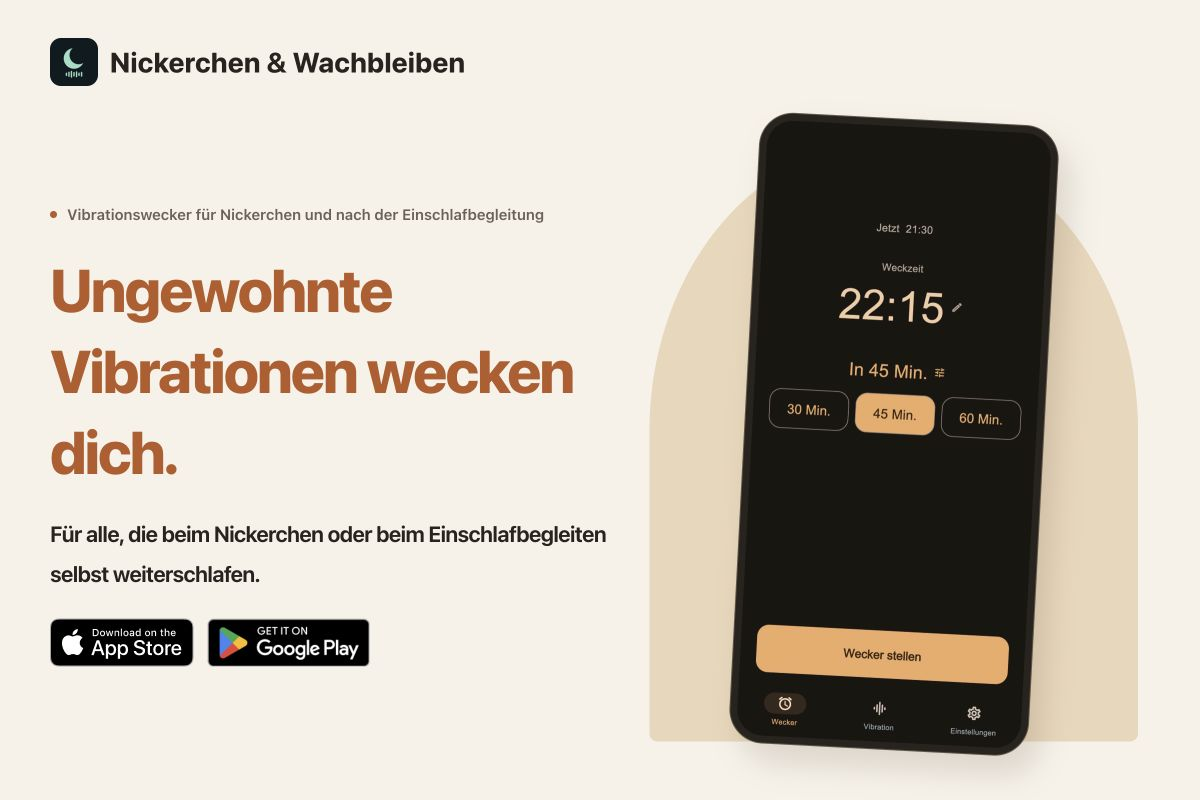
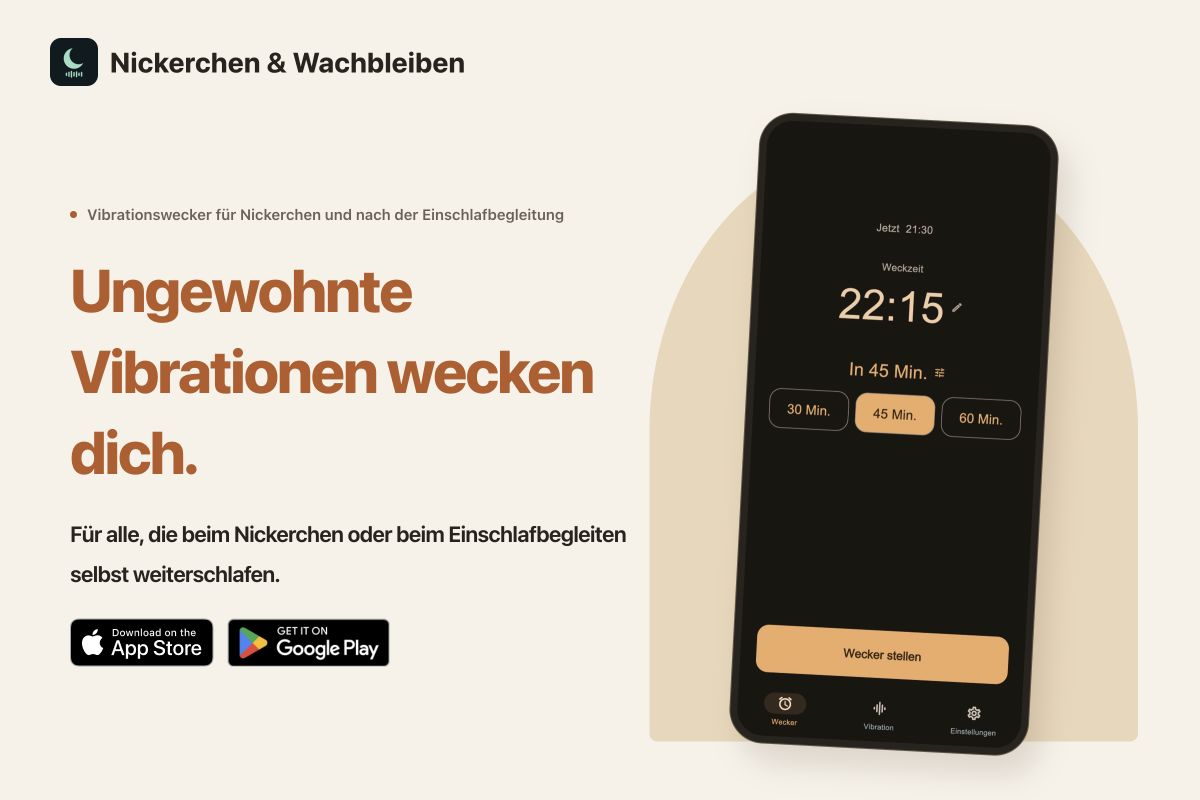
Move NemuCue OGP copy toward the center per locale

diff --git a/NemuCue/tools/prepare_ogp_capture.py b/NemuCue/tools/prepare_ogp_capture.py
@@ -17,9 +17,17 @@ html{scroll-behavior:auto!important}body{width:1200px;height:800px;overflow:hidd
 html[lang=ja] .hero h1{font-size:78px!important}
 html:lang(ar) .hero h1,html:lang(hi) .hero h1,html:lang(th) .hero h1{letter-spacing:normal!important;line-height:1.5!important}
 '''
+COPY_INSET = {
+ 'ja': 40, 'en': 24, 'zh-Hans': 44, 'zh-Hant': 44, 'ko': 44,
+ 'es': 28, 'pt-BR': 24, 'fr': 24, 'de': 20, 'it': 28, 'nl': 24,
+ 'ru': 20, 'uk': 20, 'pl': 28, 'tr': 28, 'ar': 28, 'hi': 32,
+ 'id': 28, 'vi': 28, 'th': 32
+}
 for locale in json.loads((root/'content/locales.json').read_text()):
  lang=locale['tag'];s=(root/lang/'index.html').read_text()
  s=re.sub(r'<script src="[^"]+" defer></script>','',s)
- s=s.replace('</head>',f'<style>{css}</style></head>')
+ offset = -COPY_INSET[lang] if locale['direction'] == 'rtl' else COPY_INSET[lang]
+ adjustment = f'.hero .hero-copy{{transform:translateX({offset}px)}}'
+ s=s.replace('</head>',f'<style>{css}{adjustment}</style></head>')
  (folder/(lang+'.html')).write_text(s)
 print('Prepared capture pages from the actual 20 LP KV sections.')

diff --git a/NemuCue/README.md b/NemuCue/README.md
@@ -77,7 +77,7 @@ Each KV screenshot has a localized sentence explaining its use or benefit. Capti
 
 ## OGP images
 
-`images/ogp/<locale>.jpg` contains browser screenshots of each localized KV at 1200×800. The 3:2 image ratio and centered capture layout keep the headline, real app screen, app name and store badges together. The capture fills a 1100px-wide area with a 300px phone, a 78px Japanese headline (60px in other locales), 22px audience text and a larger app name to stay readable in thumbnails. These are deterministic screenshots of the first carousel slide, not generated illustrations. The shared `/NemuCue/` entry uses the Japanese image so social crawlers do not depend on JavaScript; language-specific pages use their own image. Open Graph dimensions, image alt text and Twitter large-image tags are set explicitly.
+`images/ogp/<locale>.jpg` contains browser screenshots of each localized KV at 1200×800. The 3:2 image ratio and centered capture layout keep the headline, real app screen, app name and store badges together. The capture fills a 1100px-wide area with a 300px phone, a 78px Japanese headline (60px in other locales), 22px audience text and a larger app name to stay readable in thumbnails. The copy is inset toward the phone by 20–44px per locale while preserving its line breaks; RTL Arabic uses a negative horizontal offset. These are deterministic screenshots of the first carousel slide, not generated illustrations. The shared `/NemuCue/` entry uses the Japanese image so social crawlers do not depend on JavaScript; language-specific pages use their own image. Open Graph dimensions, image alt text and Twitter large-image tags are set explicitly.
 
 The live desktop KV is limited to 1000px with a 24px column gap to bring the copy and phone closer to the center. Mobile retains its existing single-column layout. The stylesheet URL includes a content hash for cache refresh.
 
